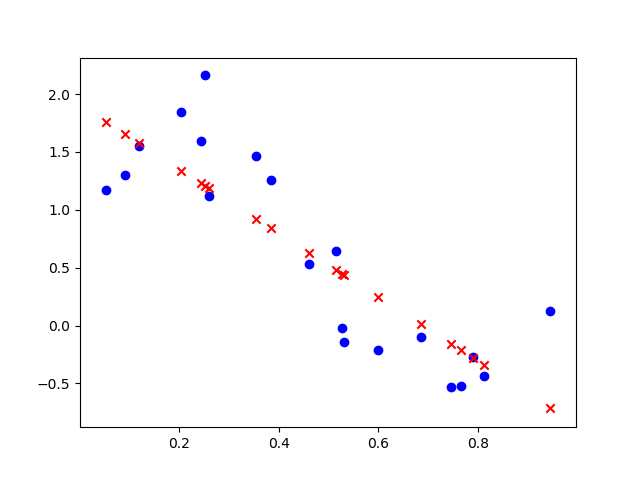
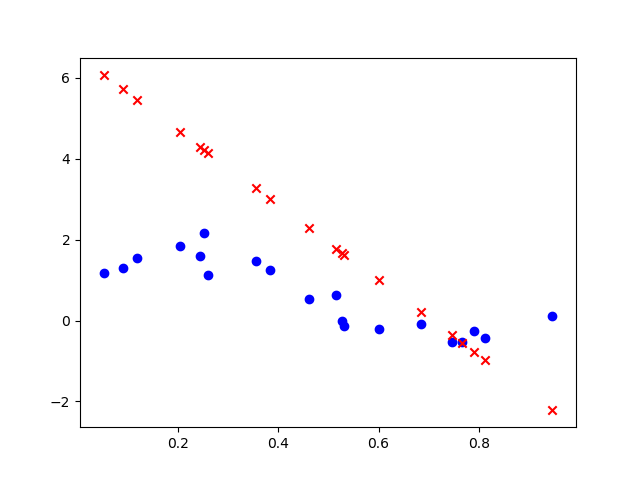
More work

diff --git a/hw1.py b/hw1.py
@@ -118,7 +118,26 @@ def reg_sse_func(X, Y, W, l, b_mat):
 def reg_sse_grad(X, Y, W, l, b_mat):
     """Compute the gradient of the regularized SSE w/ lambda `l`."""
     sse_gradient = sse_grad(X, Y, W, b_mat)
-    reg_term_gradient = 
+    reg_term_vec = W * l
+    reg_sse_gradient = sse_gradient + reg_term_vec
+    return reg_sse_gradient
+
+def reg_sse_grad_factory(l):
+    def _reg_sse_grad(X, Y, W, b_mat):
+        """Compute the gradient of the regularized SSE w/ lambda `l`."""
+        # sse_gradient = sse_grad(X, Y, W, b_mat)
+        # reg_term_vec = l * W
+        # reg_sse_gradient = sse_gradient + reg_term_vec
+        # print(f"{sse_gradient} +\n{reg_term_vec} =\n{reg_sse_gradient}")
+
+        regularization_mat = l * np.identity(len(W))
+        term_a = regularization_mat + np.dot(b_mat.T, b_mat)
+        term_a_inv = np.linalg.inv(term_a)
+        term_b = np.dot(b_mat.T, Y)
+        reg_sse_gradient = np.dot(term_a_inv, term_b)
+        return reg_sse_gradient 
+    return _reg_sse_grad
+
 
 ########################
 # OPTIMIZATION METHODS #
@@ -254,8 +273,9 @@ def newton_method(X, Y, M=2, mu=0.01, err_func=sse_func, err_grad_func=sse_grad,
     training_record = []
     i = 0
 
-    while converge_counter < 10 and i < 1500:
-        update = np.dot(lin_reg_hess_inv, err_grad_func(X, Y, W, b_mat))
+    while converge_counter < 10 and i < 100 and max(W) < 10**25:
+        error_gradient = err_grad_func(X, Y, W, b_mat)
+        update = np.dot(lin_reg_hess_inv, error_gradient)
         W = W - mu*update
         
         # Evaluate current weights
@@ -266,7 +286,7 @@ def newton_method(X, Y, M=2, mu=0.01, err_func=sse_func, err_grad_func=sse_grad,
             converge_counter += 1
         else:
             converge_counter = 0
-        # print(i, W, score, score_diff)
+        print(W, score)
 
         training_record.append((i, W, score))
         if record_fitting and i%5 == 0:
@@ -297,69 +317,143 @@ def newton_method(X, Y, M=2, mu=0.01, err_func=sse_func, err_grad_func=sse_grad,
         batch_converge_fig.savefig("./training_images/newton_covergence_plot.png")
     
     return W, score, i, training_record
+
+
+def newton_method_closed(X, Y, M=2, err_func=sse_func, err_grad_func=sse_grad, record_fitting=False):
+    W = np.zeros((M,))
+    b_mat = Phi_X = gen_basis_matrix(X, M)
+    lin_regress_hessian = np.matmul(Phi_X.T, Phi_X)
+    lin_reg_hess_inv = np.linalg.inv(lin_regress_hessian)
+
+    W = err_grad_func(X, Y, W, b_mat)
+        
+    # Evaluate current weights
+    score = err_func(X, Y, W, b_mat)
+    if record_fitting:
+        approx_vec = approximation(X, Y, W, b_mat)
+        rec_fig, rec_ax = plt.subplots(1,1)
+        rec_ax.scatter(X, Y, c='blue')
+        rec_ax.scatter(X, approx_vec, c='red', marker='x')
+        rec_fig.savefig(f"./training_images/newton_closed.png")
+        plt.close()
     
+    return W, score
 
     
 if __name__ == "__main__":
     M = 2  # Will train M features
     x_train, y_train, x_test, y_test = load_data(viz=False)
-    b_W, b_score, b_iters, b_record = batch_gradient_descent(x_train, y_train, M, 
-                                                            err_func=sse_func,
-                                                            err_grad_func=sse_grad,
-                                                            record_fitting=True)
-    s_W, s_score, s_iters, s_record = stoch_gradient_descent(x_train, y_train, M, 
-                                                            err_func=sse_func,
-                                                            err_grad_func=sse_grad,
-                                                            record_fitting=True)
-    n_W, n_score, n_iters, n_record = newton_method(x_train, y_train, M=2, mu=0.1,
-                                                    err_func=sse_func,
-                                                    err_grad_func=sse_grad,
-                                                    record_fitting=True)
+    # b_W, b_score, b_iters, b_record = batch_gradient_descent(x_train, y_train, M, 
+    #                                                         err_func=sse_func,
+    #                                                         err_grad_func=sse_grad,
+    #                                                         record_fitting=True)
+    # s_W, s_score, s_iters, s_record = stoch_gradient_descent(x_train, y_train, M, 
+    #                                                         err_func=sse_func,
+    #                                                         err_grad_func=sse_grad,
+    #                                                         record_fitting=True)
+    # n_W, n_score, n_iters, n_record = newton_method(x_train, y_train, M=2, mu=0.1,
+    #                                                 err_func=sse_func,
+    #                                                 err_grad_func=sse_grad,
+    #                                                 record_fitting=True)
 
-    print("Summary:")
-    print(f"Batch GD: Weights={b_W} | Final Score: {b_score} | Iters: {b_iters}")
-    print(f"Stochastic GD: Weights={s_W} | Final Score: {s_score} | Iters: {s_iters}")
-    print(f"Newton's Method: Weights={n_W} | Final Score: {n_score} | Iters: {n_iters}")
+    # print("Summary:")
+    # print(f"Batch GD: Weights={b_W} | Final Score: {b_score} | Iters: {b_iters}")
+    # print(f"Stochastic GD: Weights={s_W} | Final Score: {s_score} | Iters: {s_iters}")
+    # print(f"Newton's Method: Weights={n_W} | Final Score: {n_score} | Iters: {n_iters}")
 
-    converge_fig = plt.figure()
-    converge_ax = Axes3D(converge_fig)
-    for ri, record in enumerate([b_record, s_record, n_record]):
-        W0 = []
-        W1 = []
-        scores = []
+    # converge_fig = plt.figure()
+    # converge_ax = Axes3D(converge_fig)
+    # for ri, record in enumerate([b_record, s_record, n_record]):
+    #     W0 = []
+    #     W1 = []
+    #     scores = []
 
-        for r in record:
-            w0, w1 = r[1]
-            score = r[2]
-            W0.append(w0)
-            W1.append(w1)
-            scores.append(score)
-        cmap_str = {0: 'Blues',
-                    1: 'Greens',
-                    2: 'Reds'}[ri]
-        converge_ax.scatter(W0, W1, score, cmap=cmap_str, c=range(len(W0)))
-    converge_fig.savefig("./convergences.png")
+    #     for r in record:
+    #         w0, w1 = r[1]
+    #         score = r[2]
+    #         W0.append(w0)
+    #         W1.append(w1)
+    #         scores.append(score)
+    #     cmap_str = {0: 'Blues',
+    #                 1: 'Greens',
+    #                 2: 'Reds'}[ri]
+    #     converge_ax.scatter(W0, W1, score, cmap=cmap_str, c=range(len(W0)))
+    # converge_fig.savefig("./convergences.png")
 
-    weights_dict = {}
-    training_scores = []
-    for m in range(0, 10):
-        weights, score, i, training_record = newton_method(x_train, y_train, M=m+1, mu=0.1, err_func=rmse_func, err_grad_func=rmse_grad)
-        # weights, score, i, training_record = batch_gradient_descent(x_train, y_train, M=m+1, err_func=sse_func, err_grad_func=sse_grad, record_fitting=True)
-        weights_dict[m] = weights
-        training_scores.append(score)
-        print(score)
+    # weights_dict = {}
+    # training_scores = []
+    # for m in range(0, 10):
+    #     weights, score, i, training_record = newton_method(x_train, y_train, M=m+1, mu=0.1, err_func=rmse_func, err_grad_func=rmse_grad)
+    #     # weights, score, i, training_record = batch_gradient_descent(x_train, y_train, M=m+1, err_func=sse_func, err_grad_func=sse_grad, record_fitting=True)
+    #     weights_dict[m] = weights
+    #     training_scores.append(score)
+    #     print(score)
 
-    test_scores = []
-    for m in range(0, 10):
-        objective_score = rmse_func(x_test, y_test, weights_dict[m], gen_basis_matrix(x_test, M=m+1))
-        test_scores.append(objective_score)
-        print(objective_score)
+    # test_scores = []
+    # for m in range(0, 10):
+    #     objective_score = rmse_func(x_test, y_test, weights_dict[m], gen_basis_matrix(x_test, M=m+1))
+    #     test_scores.append(objective_score)
+    #     print(objective_score)
         
-    fig, ax = plt.subplots(1,1)
-    ax.plot(training_scores, label="Training", c="blue")
-    ax.scatter(range(0, 10), training_scores, c="blue")
-    ax.plot(test_scores, label="Test", c="red")
-    ax.scatter(range(0, 10), test_scores, c="red")
-    fig.legend(loc=(0.45, 0.75)) 
-    fig.savefig("./overfitting.png")
-    plt.close()
+    # fig, ax = plt.subplots(1,1)
+    # ax.plot(training_scores, label="Training", c="blue")
+    # ax.scatter(range(0, 10), training_scores, c="blue")
+    # ax.plot(test_scores, label="Test", c="red")
+    # ax.scatter(range(0, 10), test_scores, c="red")
+    # fig.legend(loc=(0.45, 0.75)) 
+    # fig.savefig("./overfitting.png")
+    # plt.close()
+
+    results_dict = {}
+    scores = []
+    for l_exp in range(-7, 1):
+        if l_exp == -7:
+            l = 0
+        else:
+            l = 10**l_exp
+        W, score = newton_method_closed(x_train, y_train, M=9,
+                                        err_func=rmse_func,
+                                        err_grad_func=reg_sse_grad_factory(l),
+                                        record_fitting=True)
+        scores.append(score)
+        results_dict[l] = (W, score)
+    
+    lambda_comp_fig, lambda_comp_ax = plt.subplots(1,1)
+    cmap = plt.cm.get_cmap('viridis', lut=8)
+    for i, l in enumerate(results_dict.keys()):
+        c = cmap(i)
+        W, score = results_dict[l]
+        approx_vec = approximation(x_train, y_train, W)
+        lambda_comp_ax.scatter(x_train, approx_vec, c=[c,], label=f"{l:1.0e}")
+    lambda_comp_ax.scatter(x_train, y_train, c='red')
+    lambda_comp_ax.set_title("Training Set Approximations")
+    lambda_comp_fig.legend(loc=(0.7, 0.5))
+
+    test_comp_fig, test_comp_ax = plt.subplots(1,1)
+    cmap = plt.cm.get_cmap('viridis', lut=8)
+    test_errors = []
+    for i, l in enumerate(results_dict.keys()):
+        W, train_score = results_dict[l]
+        test_approx_vec = approximation(x_test, y_test, W)
+        test_error = rmse_func(x_test, y_test, W, gen_basis_matrix(x_test, 9))
+        test_errors.append(test_error)
+
+        c = cmap(i)
+        test_comp_ax.scatter(x_test, test_approx_vec, c=[c,], label=f"{l:1.0e}")
+
+        print(f"Lambda={l:1.0e}: {train_score}, {test_error}")
+    test_comp_ax.scatter(x_test, y_test, c='red')
+    test_comp_fig.legend(loc=(0.7, 0.5))
+
+    fitting_error_fig, fitting_error_ax = plt.subplots(1,1)
+    fitting_error_ax.plot(list(map(lambda l: log(l, 10) if l != 0 else -7, results_dict.keys())), scores, c='red')
+    fitting_error_ax.plot(list(map(lambda l: log(l, 10) if l != 0 else -7, results_dict.keys())), test_errors, c='blue')
+    plt.show()
+
+
+
+
+
+
+
+
